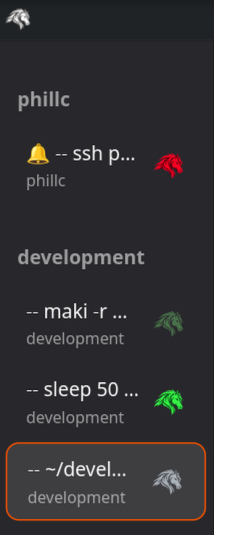
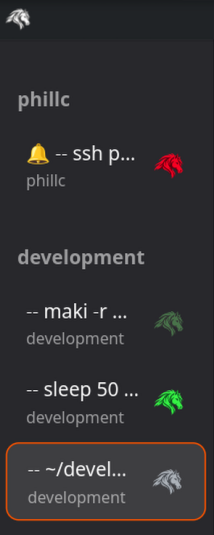
docs(readme): stack the sidebar image at half size
[ci skip]

diff --git a/README.md b/README.md
@@ -36,7 +36,7 @@ The bugs in this application are all his fault.
 
 ## Status icons
 
-<img src="sidebar.png" alt="The Njuggle sidebar: tabs grouped by repository, the status marks, and the border on the active tab" align="left" width="112">
+<div align="left"><img src="sidebar.png" alt="The Njuggle sidebar: tabs grouped by repository, the status marks, and the border on the active tab" width="107"></div>
 
 Each tab has its own Njuggle status icon, which is grey by default.
 When a process is running in a tab, this icon changes to green. If
@@ -55,8 +55,6 @@ looking at the tab or not. Dim green outranks bright green when a split
 tab mixes panes. The icon stays dim until the command resolves - red if
 it finished while you were in another tab, grey if you were watching -
 and a bell turns it red while the command is still running.
-
-<br clear="all">
 
 ## Configuration: Njuggle's own settings
 
